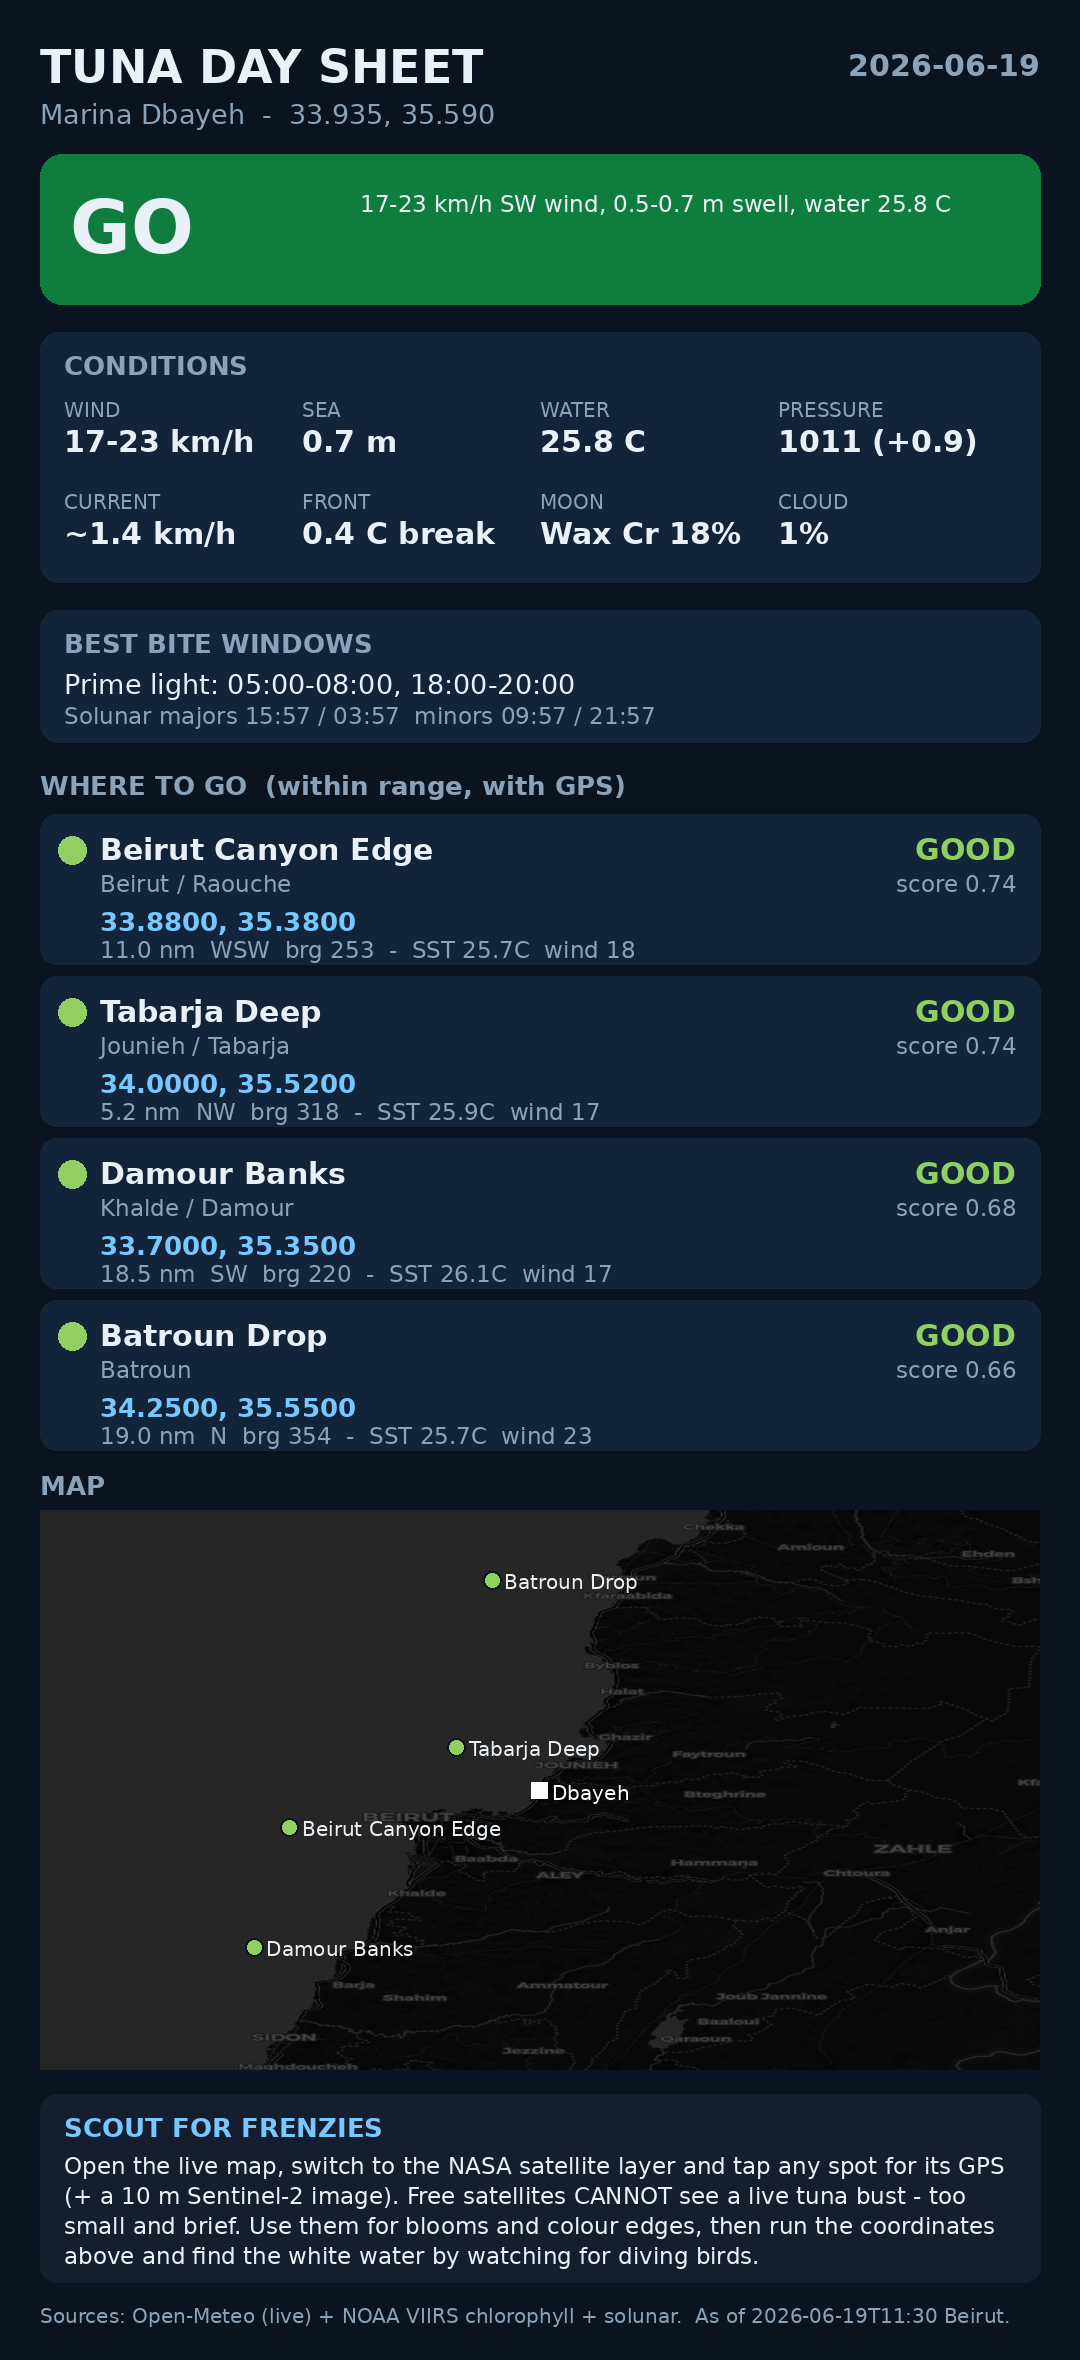
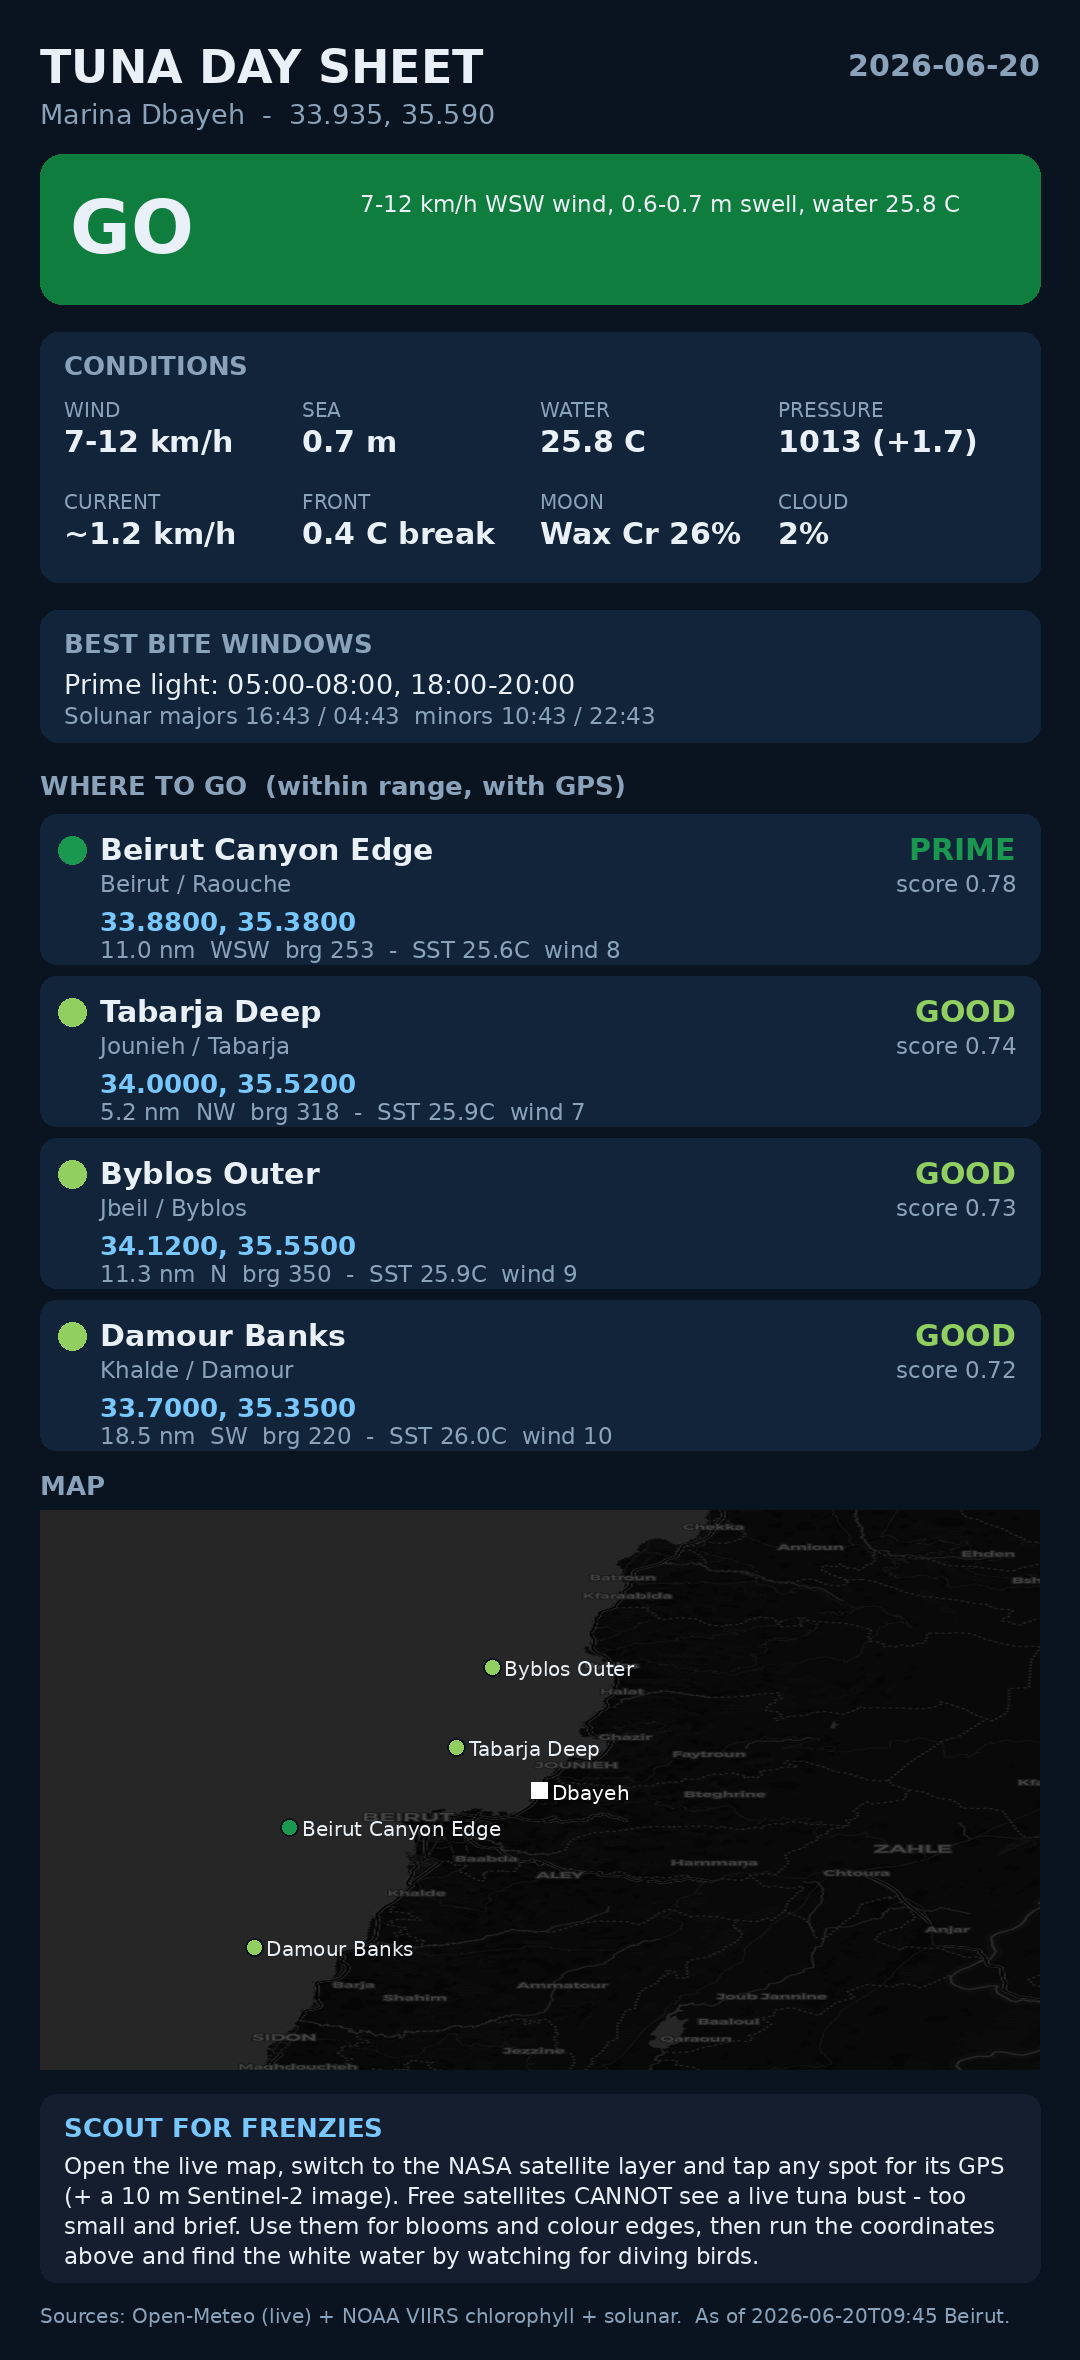
chore: daily tuna report + day image

diff --git a/docs/today.md b/docs/today.md
@@ -1,28 +1,28 @@
-# Tuna day sheet - 2026-06-19T11:30 (Asia/Beirut)
+# Tuna day sheet - 2026-06-20T09:45 (Asia/Beirut)
 
 **From Marina Baye, Dbayeh** (33.935, 35.590, range 40 km)
 
-## VERDICT: GO - 17-23 km/h SW wind, 0.5-0.7 m swell, water 25.8 C
+## VERDICT: GO - 7-12 km/h WSW wind, 0.6-0.7 m swell, water 25.8 C
 
 | Ocean | |
 |---|---|
-| Sea temp | 25.7 C-26.1 C (avg 25.8) |
-| Swell | 0.5 m-0.7 m |
-| Wind | 16.7 km/h-23.3 km/h SW |
-| Pressure | 1010.6 hPa, rising (+0.9/3h) |
-| Current | ~1.4 km/h |
-| Moon | Waxing Crescent, 18% |
-| Solunar majors | 15:57 / 03:57 (approx) |
+| Sea temp | 25.6 C-26.0 C (avg 25.8) |
+| Swell | 0.6 m-0.7 m |
+| Wind | 7.1 km/h-11.5 km/h WSW |
+| Pressure | 1013.4 hPa, rising (+1.7/3h) |
+| Current | ~1.2 km/h |
+| Moon | Waxing Crescent, 26% |
+| Solunar majors | 16:43 / 04:43 (approx) |
 
 ## Where to go (within range, best first)
 
 | # | Rating | Score | Dist | Head | SST | Wind | Spot | Coordinates |
 |--:|:--|--:|--:|:--|--:|--:|:--|:--|
-| 1 | GOOD | 0.74 | 11.0 nm | WSW | 25.7 C | 18.2 km/h | Beirut Canyon Edge (Beirut / Raouche) | 33.880, 35.380 |
-| 2 | GOOD | 0.74 | 5.2 nm | NW | 25.9 C | 17.3 km/h | Tabarja Deep (Jounieh / Tabarja) | 34.000, 35.520 |
-| 3 | GOOD | 0.68 | 18.5 nm | SW | 26.1 C | 16.7 km/h | Damour Banks (Khalde / Damour) | 33.700, 35.350 |
-| 4 | GOOD | 0.66 | 19.0 nm | N | 25.7 C | 23.3 km/h | Batroun Drop (Batroun) | 34.250, 35.550 |
-| 5 | GOOD | 0.65 | 11.3 nm | N | 25.8 C | 17.5 km/h | Byblos Outer (Jbeil / Byblos) | 34.120, 35.550 |
+| 1 | PRIME | 0.78 | 11.0 nm | WSW | 25.6 C | 8.2 km/h | Beirut Canyon Edge (Beirut / Raouche) | 33.880, 35.380 |
+| 2 | GOOD | 0.74 | 5.2 nm | NW | 25.9 C | 7.1 km/h | Tabarja Deep (Jounieh / Tabarja) | 34.000, 35.520 |
+| 3 | GOOD | 0.73 | 11.3 nm | N | 25.9 C | 8.7 km/h | Byblos Outer (Jbeil / Byblos) | 34.120, 35.550 |
+| 4 | GOOD | 0.72 | 18.5 nm | SW | 26.0 C | 9.8 km/h | Damour Banks (Khalde / Damour) | 33.700, 35.350 |
+| 5 | GOOD | 0.63 | 19.0 nm | N | 25.8 C | 11.5 km/h | Batroun Drop (Batroun) | 34.250, 35.550 |
 
 **Best bet:** Beirut Canyon Edge - 11.0 nm bearing 253 (WSW). Top zone on a thermal break. Cast the warm/cold seam; look for diving birds off Raouche.
 